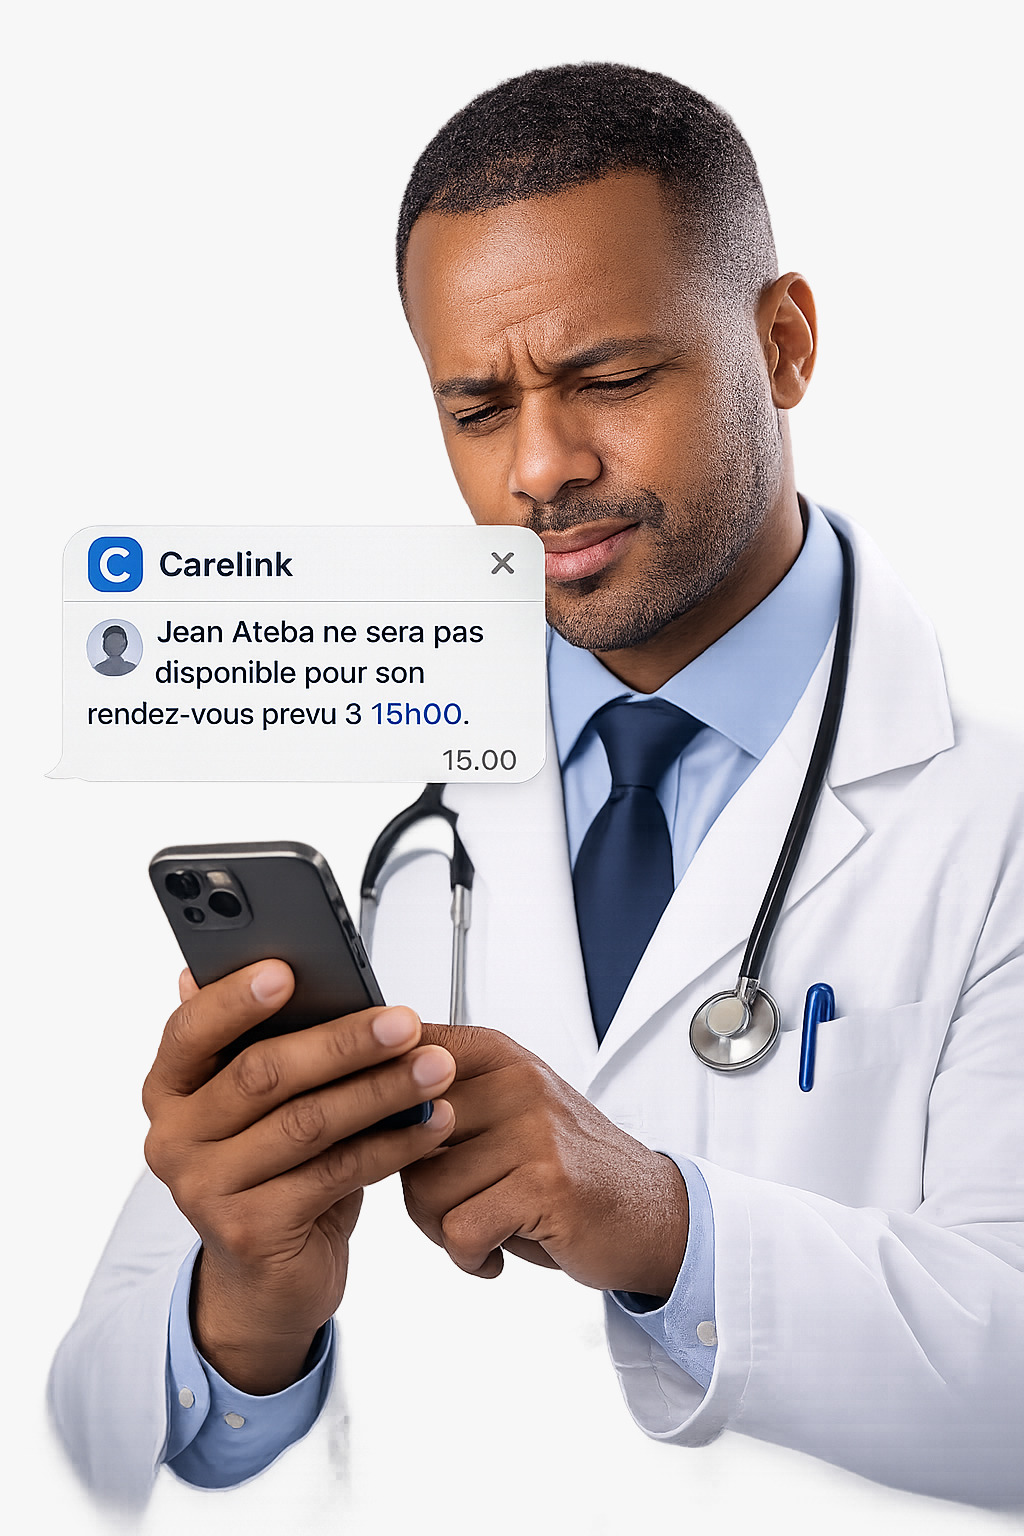
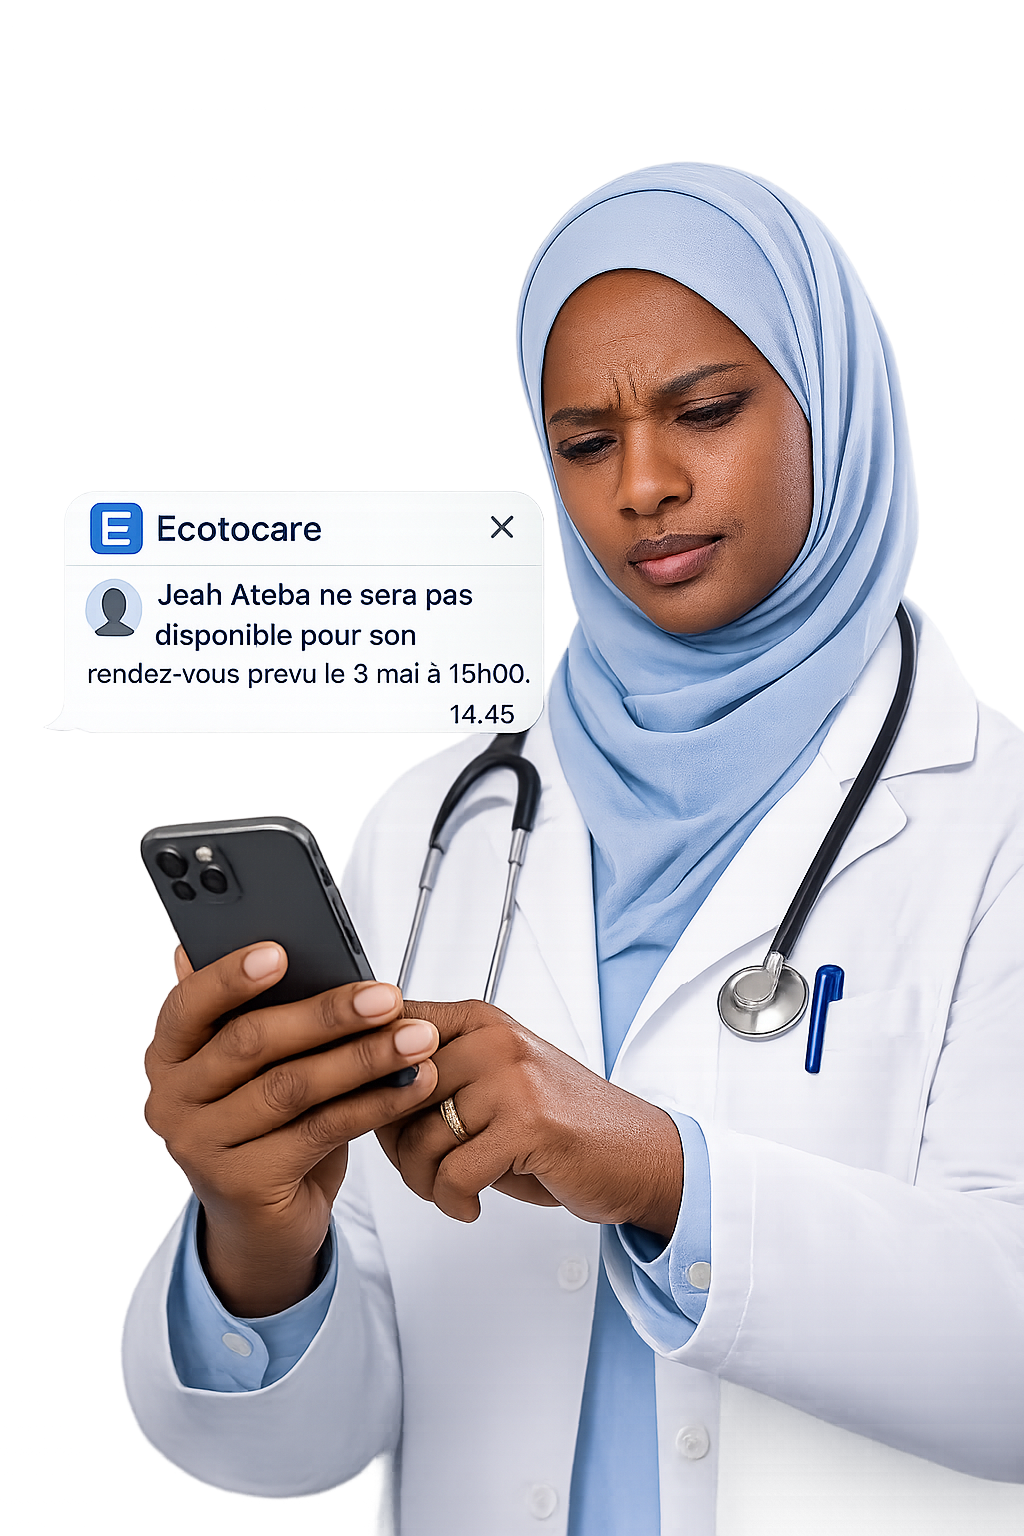
ok

diff --git a/components/sections/Hero.tsx b/components/sections/Hero.tsx
@@ -160,43 +160,51 @@ function HeroImageCarousel() {
 function GeometricDecorations() {
   return (
     <div className="absolute inset-0 pointer-events-none z-0 overflow-hidden">
-      {/* Halos de couleurs douces (amélioration de la couleur en fond) */}
+      {/* Halos de lumière doux pour un rendu premium */}
       <motion.div
-        animate={{ scale: [1, 1.2, 1], opacity: [0.4, 0.7, 0.4] }}
+        animate={{ scale: [1, 1.2, 1], opacity: [0.3, 0.5, 0.3] }}
         transition={{ duration: 10, repeat: Infinity, ease: "easeInOut" }}
-        className="absolute -top-32 -left-32 w-[600px] h-[600px] bg-brand-400/20 dark:bg-brand-500/15 rounded-full blur-[100px]"
+        className="absolute -top-32 -left-32 w-[600px] h-[600px] bg-brand-400/15 dark:bg-brand-500/10 rounded-full blur-[100px]"
       />
       <motion.div
-        animate={{ scale: [1, 1.3, 1], opacity: [0.3, 0.6, 0.3] }}
+        animate={{ scale: [1, 1.3, 1], opacity: [0.2, 0.4, 0.2] }}
         transition={{ duration: 12, repeat: Infinity, ease: "easeInOut", delay: 2 }}
-        className="absolute -bottom-20 right-[5%] w-[500px] h-[500px] bg-blue-400/20 dark:bg-blue-500/15 rounded-full blur-[100px]"
+        className="absolute -bottom-20 right-[5%] w-[500px] h-[500px] bg-blue-400/10 dark:bg-blue-500/10 rounded-full blur-[100px]"
       />
 
-      {/* Formes originales restaurées, défloutées et mieux animées */}
+      {/* Arcs de cercle rayonnants (SVG Pur) aux couleurs du logo - Haut Gauche */}
       <motion.div
         animate={{ 
-          y: [0, -40, 0], 
-          x: [0, 20, 0],
-          rotate: [0, 12, 0], 
-          scale: [1, 1.05, 1] 
+          scale: [1, 1.03, 1],
+          rotate: [0, 3, 0]
         }}
-        transition={{ duration: 14, repeat: Infinity, ease: "easeInOut" }}
-        className="absolute -top-16 -left-16 lg:-top-24 lg:-left-24 w-[350px] lg:w-[550px] opacity-75 dark:opacity-60 mix-blend-multiply dark:mix-blend-screen drop-shadow-[0_20px_30px_rgba(0,0,0,0.1)]"
+        transition={{ duration: 15, repeat: Infinity, ease: "easeInOut" }}
+        className="absolute -top-10 -left-10 text-brand-800 dark:text-brand-300 origin-top-left"
       >
-        <Image src="/images/shape-1.png" alt="" width={600} height={600} className="w-full h-auto object-contain" />
+        <svg width="800" height="800" viewBox="0 0 800 800" fill="none" xmlns="http://www.w3.org/2000/svg" className="opacity-[0.25] dark:opacity-[0.3]">
+          <circle cx="0" cy="0" r="750" stroke="currentColor" strokeWidth="2" strokeDasharray="10 20" />
+          <circle cx="0" cy="0" r="600" stroke="currentColor" strokeWidth="40" opacity="0.3" />
+          <circle cx="0" cy="0" r="450" stroke="currentColor" strokeWidth="100" opacity="0.6" />
+          <circle cx="0" cy="0" r="280" stroke="currentColor" strokeWidth="30" opacity="0.4" />
+          <circle cx="0" cy="0" r="180" stroke="currentColor" strokeWidth="8" />
+        </svg>
       </motion.div>
 
+      {/* Arcs de cercle rayonnants - Bas Droite */}
       <motion.div
         animate={{ 
-          y: [0, 50, 0], 
-          x: [0, -30, 0], 
-          rotate: [0, -15, 0],
-          scale: [1, 1.1, 1] 
+          scale: [1, 1.04, 1],
+          rotate: [0, -3, 0]
         }}
-        transition={{ duration: 16, repeat: Infinity, ease: "easeInOut", delay: 2 }}
-        className="absolute bottom-5 right-5 lg:-bottom-10 lg:right-[15%] w-[300px] lg:w-[450px] opacity-75 dark:opacity-60 mix-blend-multiply dark:mix-blend-screen drop-shadow-[0_20px_30px_rgba(0,0,0,0.1)]"
+        transition={{ duration: 18, repeat: Infinity, ease: "easeInOut", delay: 1 }}
+        className="absolute -bottom-10 -right-10 text-brand-800 dark:text-brand-300 origin-bottom-right"
       >
-        <Image src="/images/shape-2.png" alt="" width={500} height={500} className="w-full h-auto object-contain" />
+        <svg width="600" height="600" viewBox="0 0 600 600" fill="none" xmlns="http://www.w3.org/2000/svg" className="opacity-[0.25] dark:opacity-[0.3]">
+          <circle cx="600" cy="600" r="500" stroke="currentColor" strokeWidth="60" opacity="0.4" />
+          <circle cx="600" cy="600" r="350" stroke="currentColor" strokeWidth="20" opacity="0.7" />
+          <circle cx="600" cy="600" r="250" stroke="currentColor" strokeWidth="80" opacity="0.2" />
+          <circle cx="600" cy="600" r="100" stroke="currentColor" strokeWidth="10" />
+        </svg>
       </motion.div>
     </div>
   );
